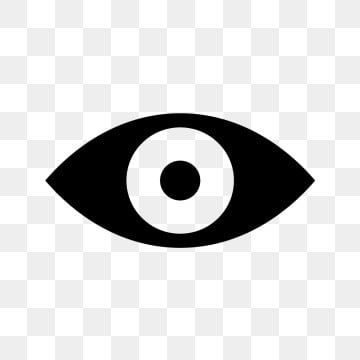
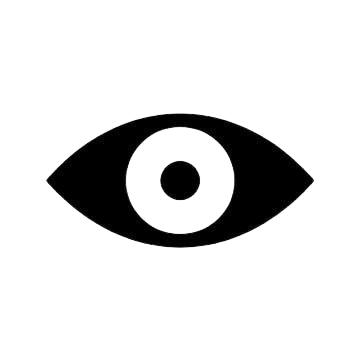
eye toggle fized inside the box

diff --git a/BACKEND-UY/php/admin/index.php b/BACKEND-UY/php/admin/index.php
@@ -12,6 +12,25 @@
          padding: 10px;
          text-align: left;
       }
+
+      .password-container {
+         position: relative;
+      }
+
+      .password-toggle {
+         position: absolute;
+         right: 5px;
+         top: 50%;
+         transform: translateY(-50%);
+         cursor: pointer;
+         padding: 5%;
+         max-width: 100%;
+         max-height: 60px;
+      }
+
+      .password-toggle.clicked {
+         filter: invert(100%) sepia(0%) saturate(10000%) hue-rotate(180deg);
+      }
    </style>
 </head>
 <body>
@@ -25,7 +44,10 @@
          <tr>
             <form id="loginForm" method="post" action="check.php">
                <td>Username:</td><td><input type="text" name="username" required/></td>
-               <tr><td>Password:</td><td><input type="password" name="password" id="password" required/><input type="image" src="eye.png" alt="Eye" onclick="togglePasswordVisibility(event)" style="width: 20px; height: 20px;"></td></tr>
+               <tr><td>Password:</td><td class="password-container">
+                  <input type="password" name="password" id="password" required/>
+                  <img src="../../images/eye.png" alt="Eye" class="password-toggle" onclick="togglePasswordVisibility(event)">
+               </td></tr>
                <tr><td colspan="2" class="submit-button"><input type="submit" value="Login" name="loginBtn" class="btn btn-primary"/></td>
             </form>
          </tr>
@@ -53,6 +75,7 @@
             passwordField.type = "text";
          } else {
             passwordField.type = "password";
+
          }
       }
    </script>
